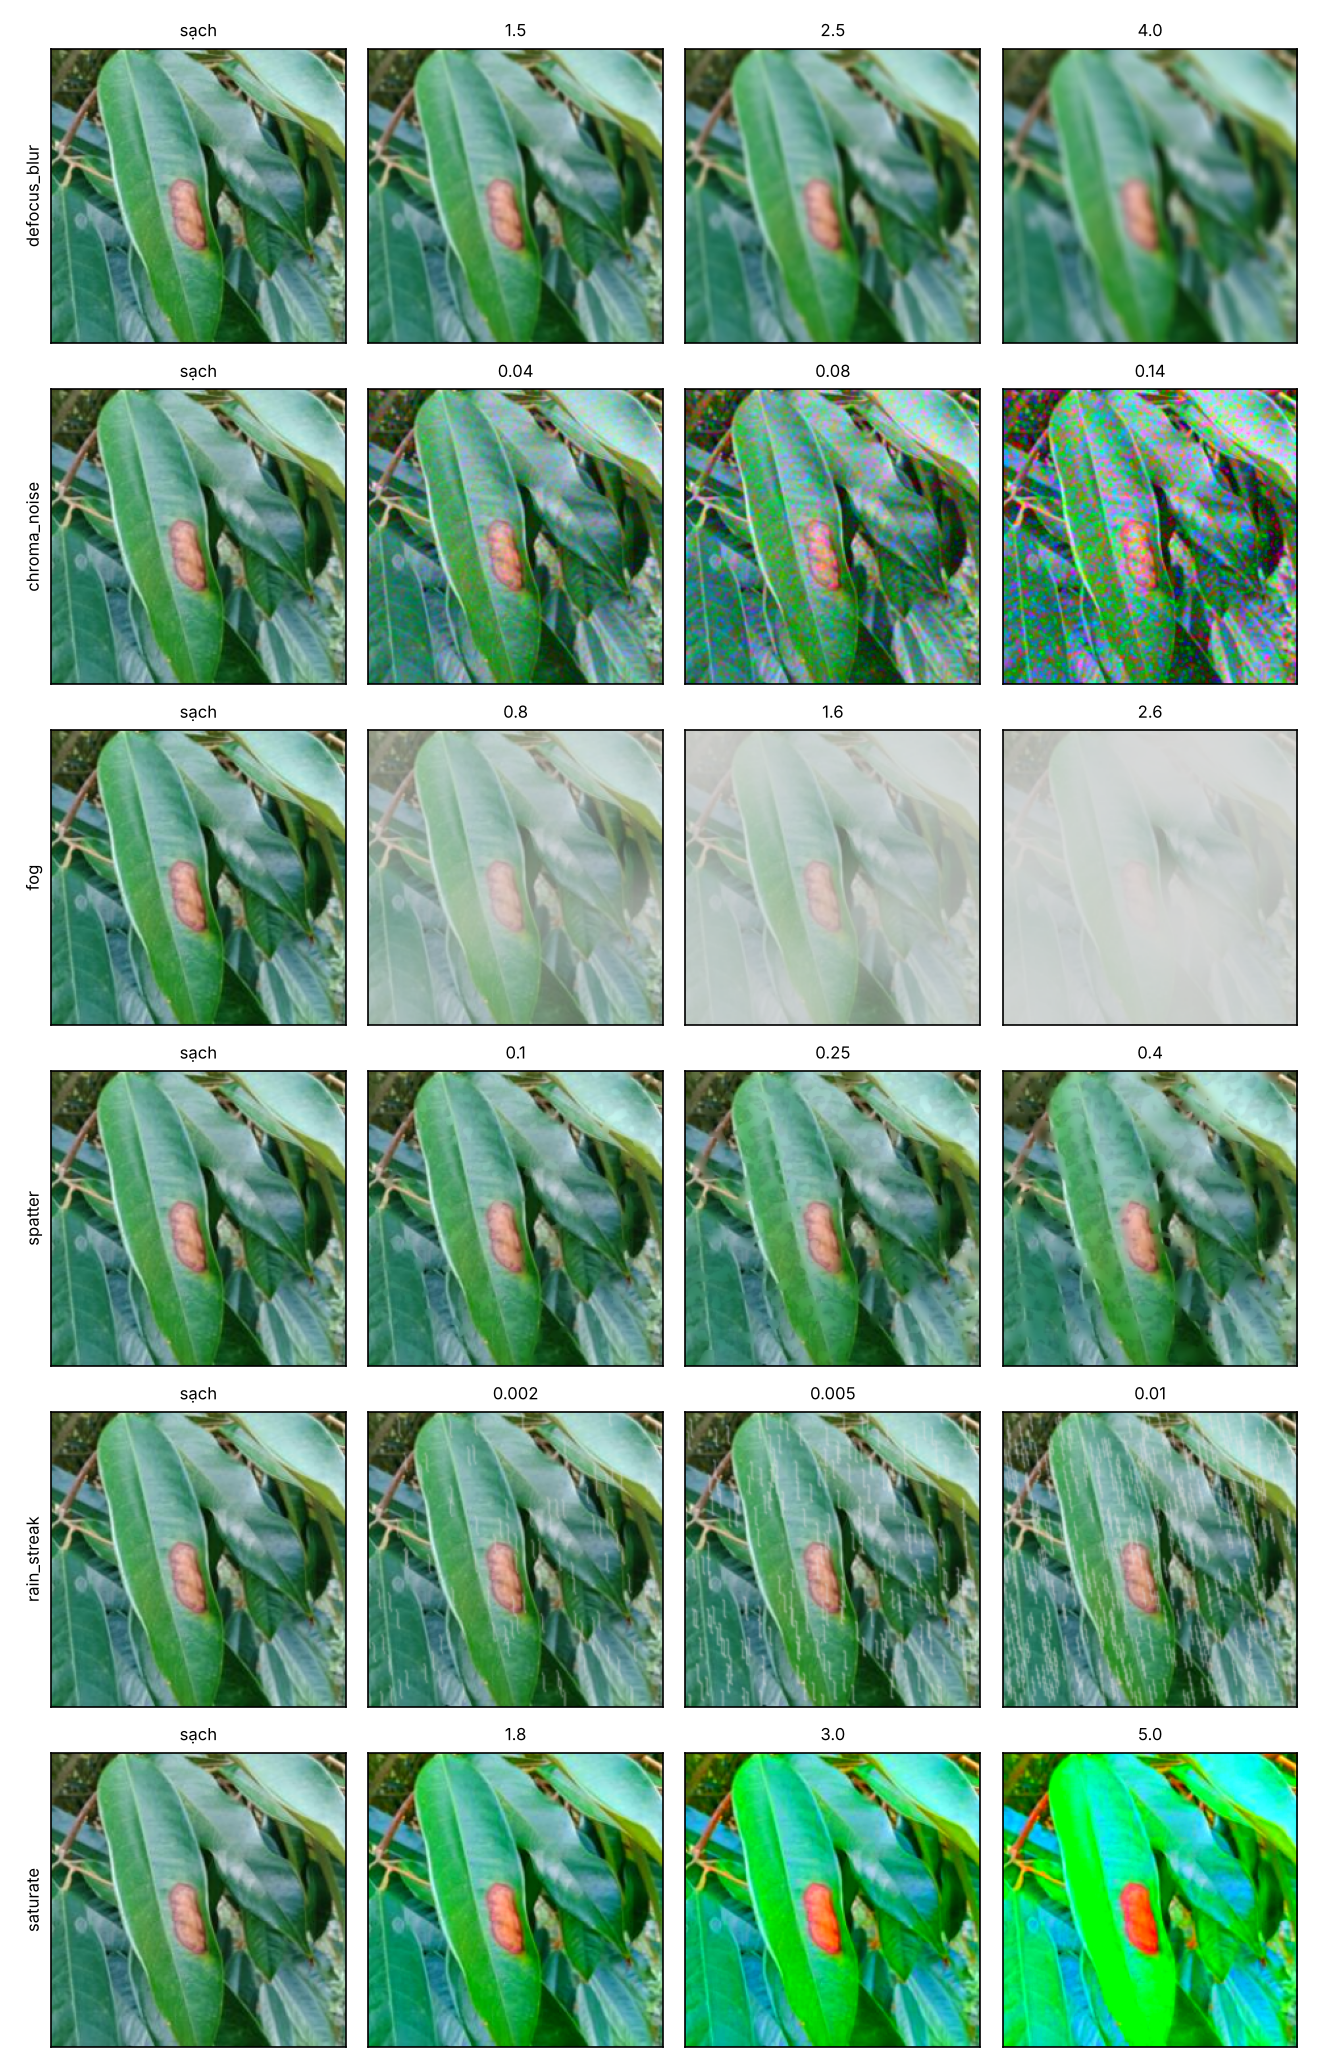
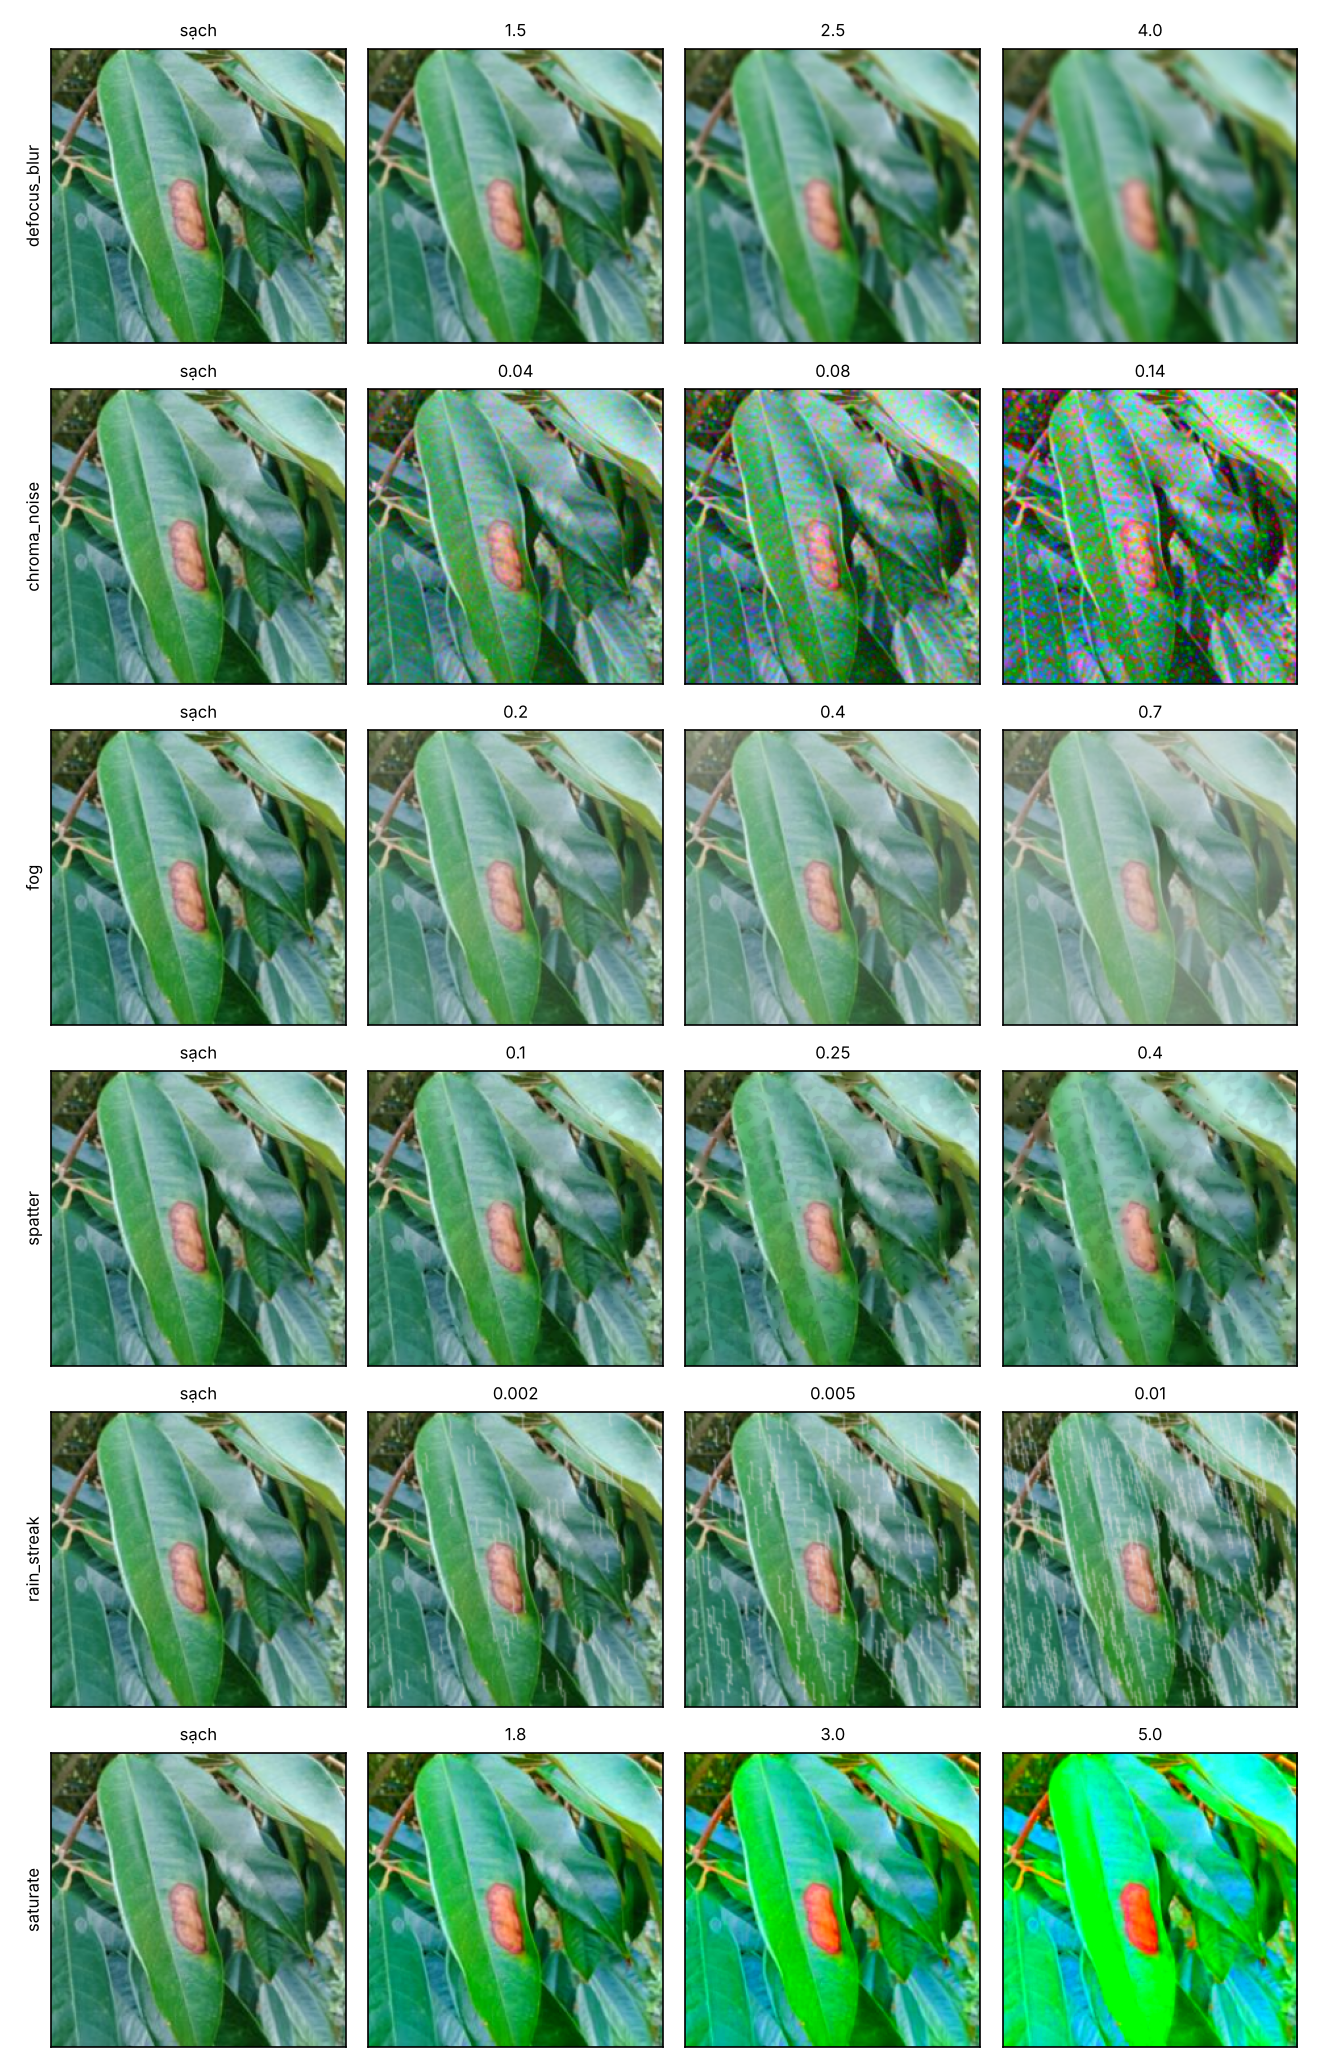
Hạ các mức fog xuống 0.2, 0.4, 0.7 (task 5.5)
Mức cũ 0.8, 1.6, 2.6 làm ảnh nhạt gần trắng, vết bệnh biến mất ở mức 2 và 3.
Cập nhật ảnh xem trước và test theo mức mới. Vẫn là mức tạm, chốt sau khi đo trên validation.

Changed region(s): [[0.2795, 0.3401, 0.9939, 0.4947]]

diff --git a/tests/test_unseen_corruption.py b/tests/test_unseen_corruption.py
@@ -7,7 +7,7 @@ from src.corruption.augment import RandomCorruption
 from src.corruption.unseen import LUMA_WEIGHTS, UNSEEN_RANDOM_TYPES, chroma_noise, defocus_blur, fog, rain_streak, saturate, spatter
 
 CONFIG = "configs/unseen_corruption.yaml"
-VALUES = {"defocus_blur": 3.0, "chroma_noise": 0.08, "fog": 1.6, "spatter": 0.25, "rain_streak": 0.005, "saturate": 3.0}
+VALUES = {"defocus_blur": 3.0, "chroma_noise": 0.08, "fog": 0.30, "spatter": 0.25, "rain_streak": 0.005, "saturate": 3.0}
 
 
 @pytest.fixture
@@ -59,10 +59,10 @@ def test_chroma_noise_leaves_luma_untouched():
 
 
 def test_fog_follows_scattering_model(image):
-    out = fog(image, 1.6, torch.Generator().manual_seed(0))
+    out = fog(image, 0.30, torch.Generator().manual_seed(0))
     assert out.std() < image.std()  # mất tương phản
     assert out.mean() > image.mean()  # kéo về ánh sáng khí quyển
-    denser = fog(image, 2.6, torch.Generator().manual_seed(0))
+    denser = fog(image, 0.70, torch.Generator().manual_seed(0))
     assert denser.std() < out.std()
 
 
@@ -90,7 +90,7 @@ def test_saturate_identity_gray_and_boost(image):
 
 
 def test_corrupt_tensor_is_deterministic_and_8bit(image):
-    spec = {"type": "fog", "value": 1.6}
+    spec = {"type": "fog", "value": 0.30}
     first = corrupt_tensor(image, "fog_s2", spec, 42)
     assert torch.equal(first, corrupt_tensor(image, "fog_s2", spec, 42))
     assert not torch.equal(first, corrupt_tensor(image, "fog_s2", spec, 43))
